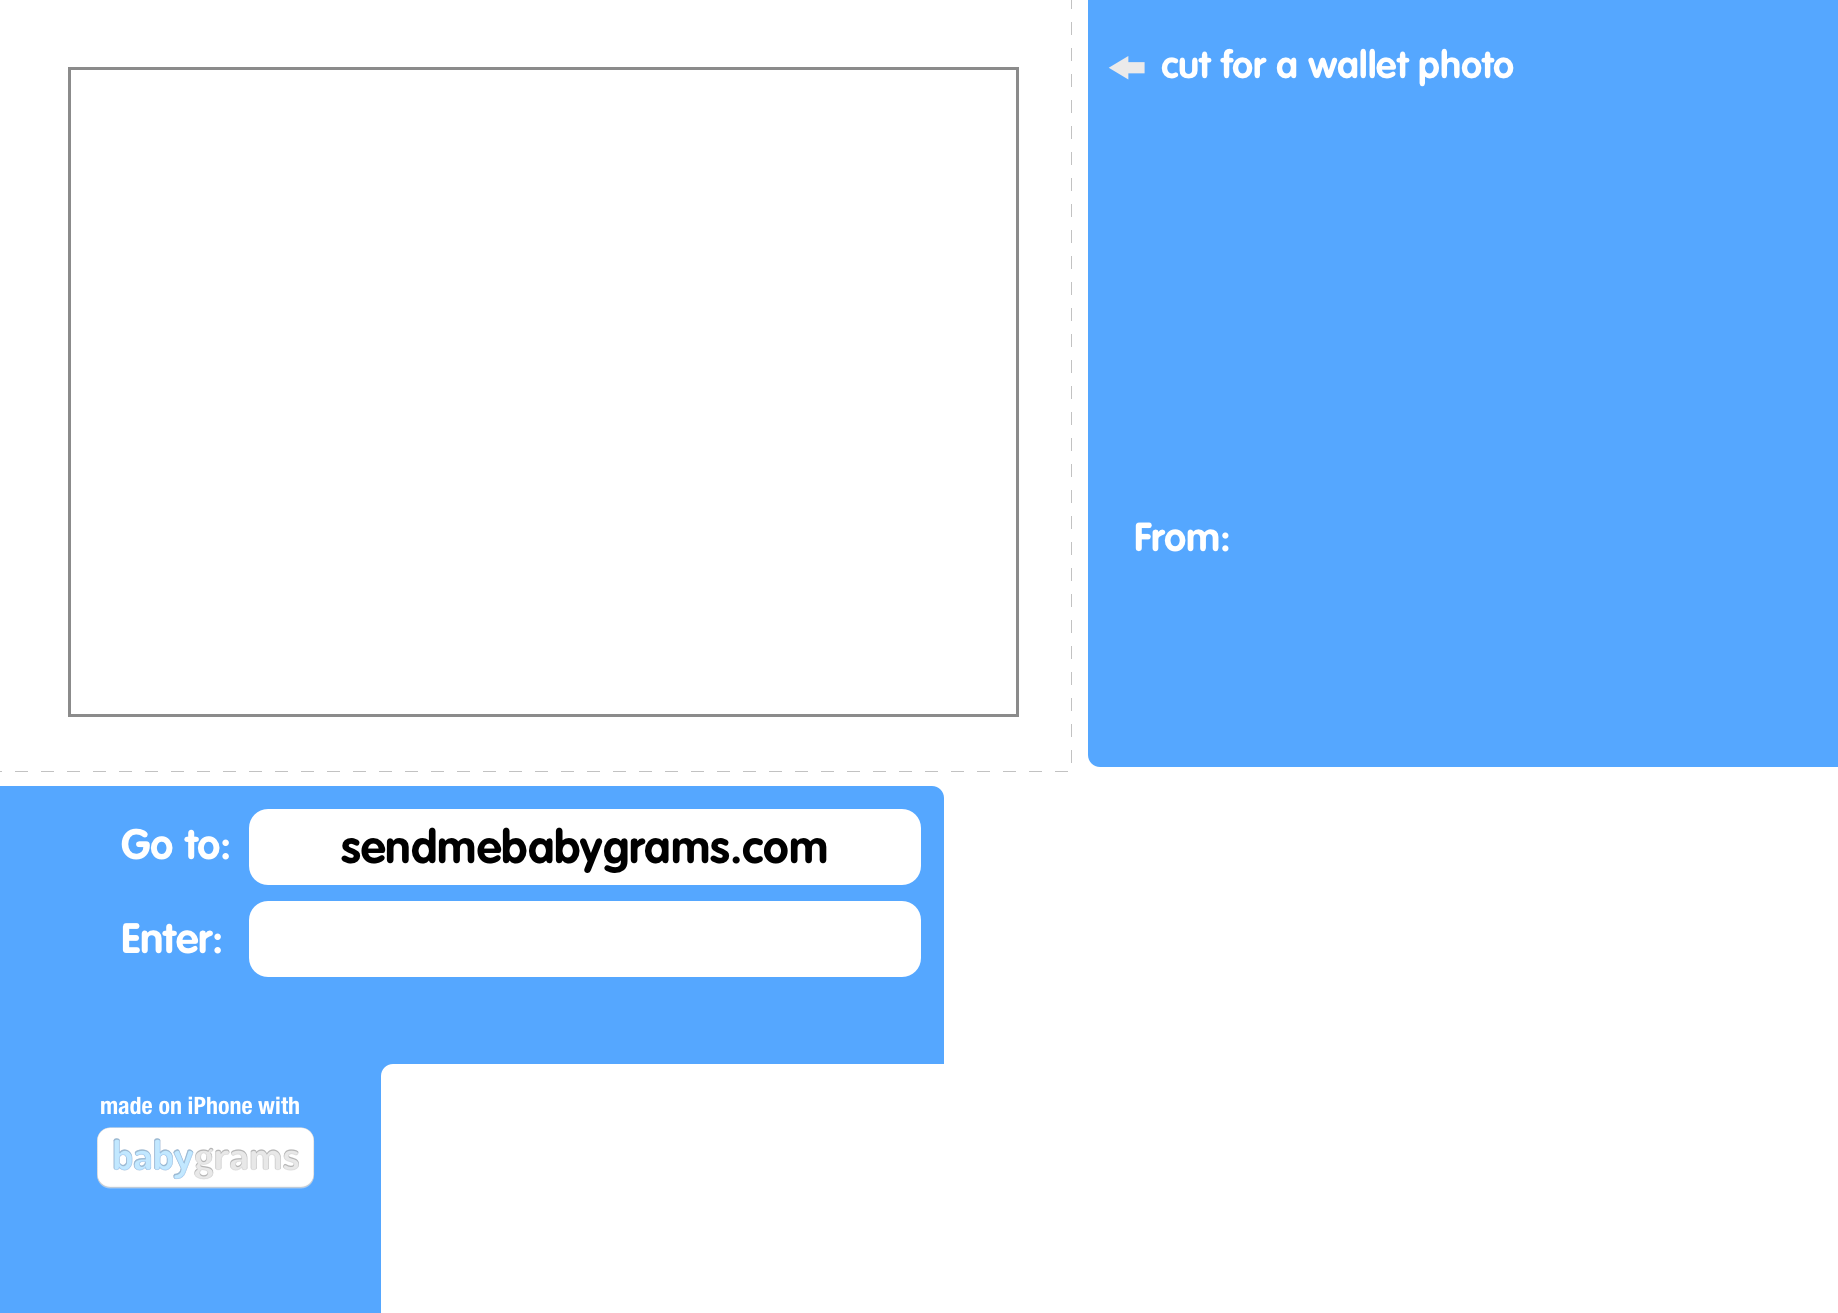
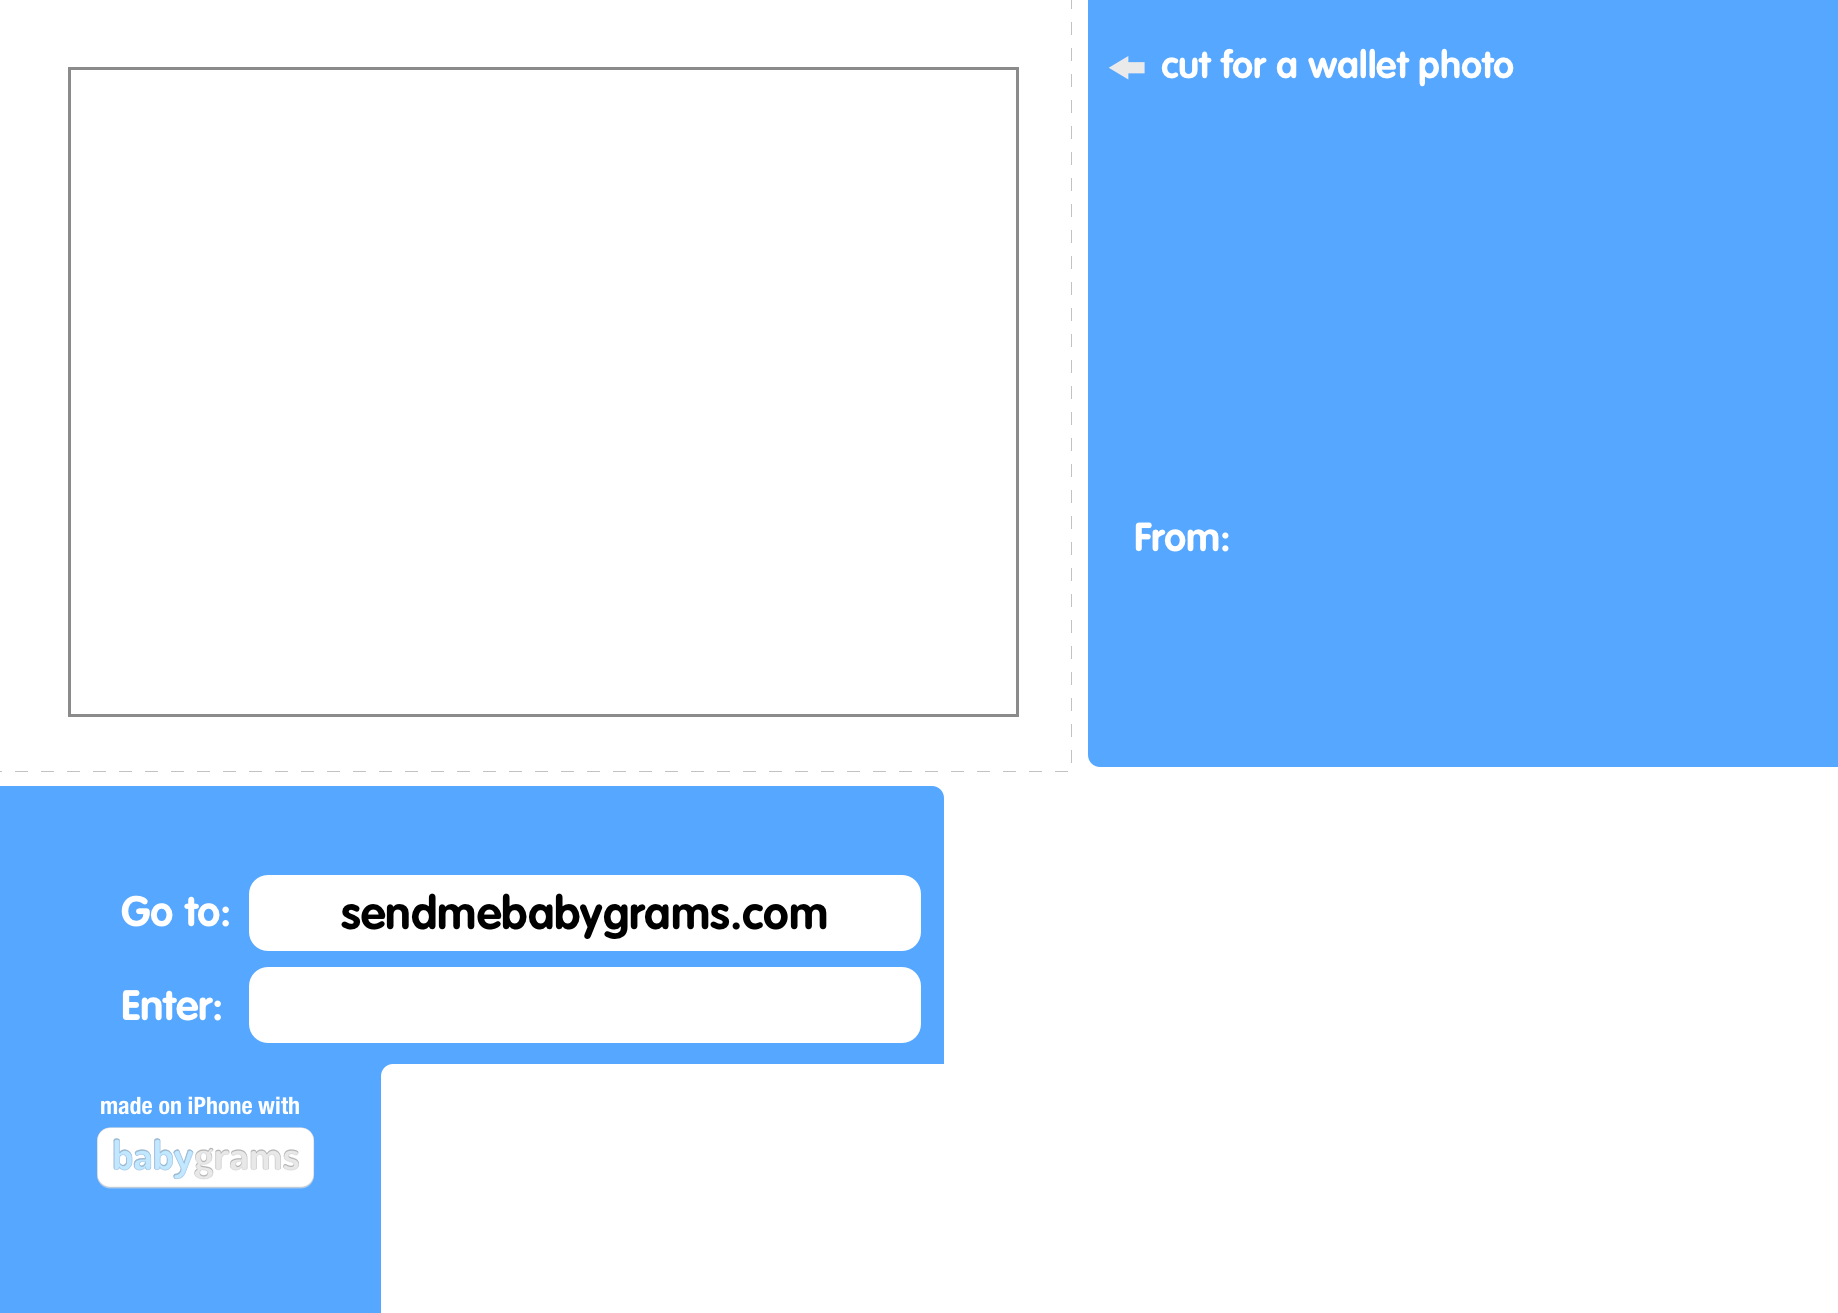
Better credit nag

Changed region(s): [[0.062, 0.5933, 0.5272, 0.8119]]

diff --git a/app/models/card_printing.rb b/app/models/card_printing.rb
@@ -51,7 +51,21 @@ class CardPrinting < ActiveRecord::Base
   end
 
   def should_draw_credits_nag?
-    self.recipient_user != self.card_order.order_sender_user
+    return false if self.recipient_user == self.card_order.order_sender_user
+
+    # Draw the nag if they either have less than the minimum left in the config after this one, or
+    # if they have less than they need to make another order of this size.
+
+    app = self.card_order.app
+    config = CONFIG.for_app(app)
+    number_of_recipients = self.card_order.card_printings.size
+    credits_from_order = number_of_recipients * config.card_credits
+    remaining_credits = self.card_order.order_sender_user.credits_for_app(app) - credits_from_order
+
+    has_less_than_minimum_left = remaining_credits < config.card_credits_nag_minimum_left_credits
+    has_insufficient_for_another_order = remaining_credits < (number_of_recipients * config.card_credits + config.processing_credits)
+
+    has_less_than_minimum_left || has_insufficient_for_another_order
   end
 
   def lookup_number

diff --git a/lib/postcard_image_generator.rb b/lib/postcard_image_generator.rb
@@ -407,10 +407,10 @@ class PostcardImageGenerator < ImageGenerator
     draw = Magick::Draw.new
     draw.stroke = 'transparent'
     draw.fill = "#ffffff"
-    draw.pointsize = 38
+    draw.pointsize = 42
     draw.font("'#{Rails.root}/resources/fonts/vagrounded-bold.ttf'")
     draw.text_align(Magick::LeftAlign)
-    draw.text(122, 1032, "Buy credits for #{sender_user.user_profile.first_name} to send you more!")
+    draw.text(122, 846, "Like this card? Want more from #{sender_user.user_profile.first_name}?")
     draw.draw(back)
 
     draw = Magick::Draw.new
@@ -419,7 +419,7 @@ class PostcardImageGenerator < ImageGenerator
     draw.pointsize = 48 
     draw.font("'#{Rails.root}/resources/fonts/RobotoSlab-Regular.ttf'")
     draw.text_align(Magick::CenterAlign)
-    draw.text(575, 956, "#{@card_printing.lookup_number}")
+    draw.text(575, 1022, "#{@card_printing.lookup_number}")
     draw.draw(back)
   end
 end

diff --git a/config/app/public.rb b/config/app/public.rb
@@ -156,6 +156,7 @@ CONFIG = SampleableConfig.define do
       { type: "share_card", message: "Share your cards on Facebook." },
     ]
 
+    card_credits_nag_minimum_left_credits 30
     open_graph_share_enabled true
     open_graph_share_header "Share on Facebook"
     open_graph_share_message "Do you want to share your babygram on Facebook?"
